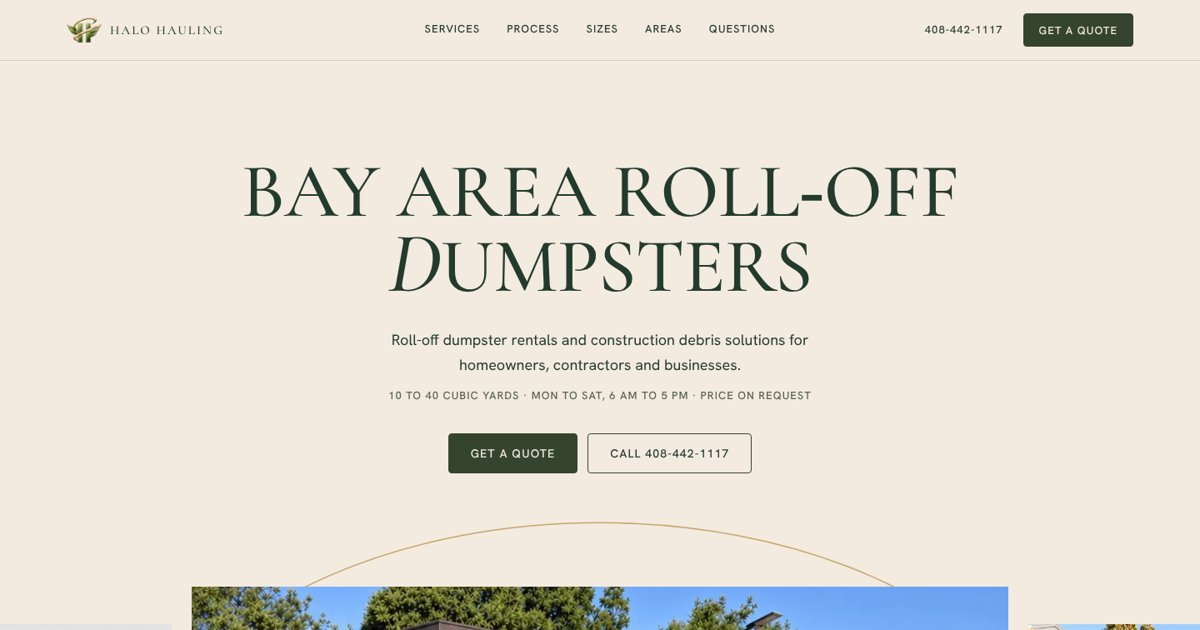
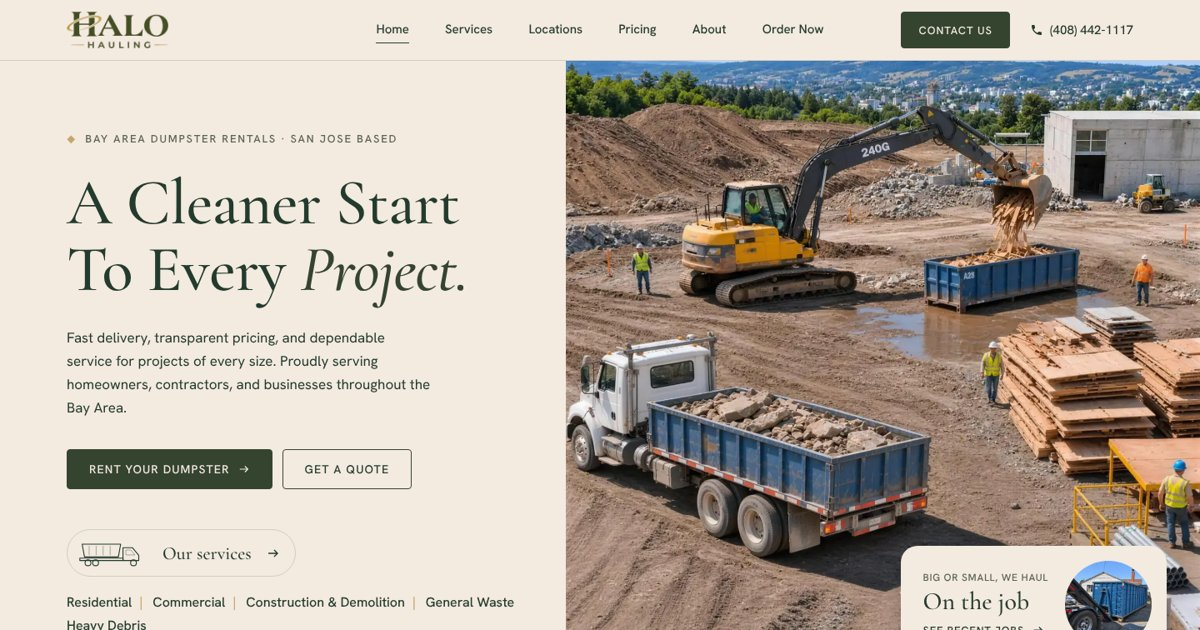
Update landing page preview
Claude-Session: https://claude.ai/code/session_01D1zbuP5dsXHYhoAWNQLH19

diff --git a/index.html b/index.html
@@ -46,7 +46,7 @@ ul, ol { list-style: none; }
 .display em, .h2 em { font-style: italic; text-transform: none; font-size: 1.12em; line-height: 0; }
 .label { font: 500 13px/1.4 var(--sans); letter-spacing: .08em; text-transform: uppercase; color: var(--muted); }
 .label > span { color: var(--gold); margin-right: 12px; padding-right: 12px; border-right: 1px solid currentColor; }
-.dark .label > span, .label > span { color: #9a7a35; }
+.dark .label > span, .label > span { color: #775a1c; }
 .dark .label > span { color: var(--gold); }
 .lead { font-size: 18px; line-height: 1.6; max-width: 46ch; }
 .caps { font: 500 13px/1.3 var(--sans); letter-spacing: .08em; text-transform: uppercase; }
@@ -69,14 +69,17 @@ ul, ol { list-style: none; }
 .nav { position: sticky; top: 0; z-index: 20; background: var(--cream); border-bottom: 1px solid var(--line); }
 .nav__bar { height: var(--nav); display: grid; grid-template-columns: 1fr auto 1fr; align-items: center; gap: 24px; }
 .nav__logo { display: inline-flex; align-items: center; gap: 10px; text-decoration: none; font: 500 15px/1 var(--serif); letter-spacing: .14em; text-transform: uppercase; }
-.nav__logo img { height: 30px; width: auto; }
-.nav__links { display: flex; gap: 32px; }
+.nav__logo img { height: 44px; width: auto; }
+.nav__links { display: flex; gap: clamp(28px, 3vw, 48px); font: 500 15px/1 var(--sans); }
+.nav__links a[aria-current] { border-bottom-color: var(--forest); }
 .nav__links a { text-decoration: none; padding: 8px 0; border-bottom: 1px solid transparent; }
 .nav__links a:hover { border-bottom-color: currentColor; }
 .nav__end { display: flex; justify-content: flex-end; align-items: center; gap: 24px; }
-.nav__end .btn { min-height: 40px; padding: 0 18px; font-size: 13px; }
-.nav__phone { text-decoration: none; white-space: nowrap; }
+.nav__end .btn { min-height: 44px; padding: 0 20px; font-size: 13px; }
+.nav__phone { display: inline-flex; align-items: center; gap: 8px; text-decoration: none; white-space: nowrap; font: 500 15px/1 var(--sans); }
+.nav__phone svg { width: 16px; height: 16px; fill: var(--forest); }
 .nav__toggle { display: none; width: 44px; height: 44px; border: 1px solid var(--line); border-radius: var(--r); background: none; color: inherit; cursor: pointer; }
+@media (max-width: 1199px) { .nav__links { gap: 24px; } .nav__end { gap: 16px; } }
 @media (max-width: 1023px) {
   .nav__bar { grid-template-columns: 1fr auto; }
   .nav__links, .nav__phone { display: none; }
@@ -89,41 +92,62 @@ ul, ol { list-style: none; }
 
 section { padding-block: clamp(80px, 11vw, 160px); }
 
-/* hero: centred headline over a row of three photographs */
-.hero { padding-block: clamp(56px, 8vw, 112px) 0; text-align: center; }
-.hero .display { margin-inline: auto; }
-@media (max-width: 899px) { br.lg { display: none; } .hero .display { max-width: 12ch; } }
-.hero__sub { margin: 28px auto 0; max-width: 52ch; font-size: 18px; }
-.hero__tags { margin-top: 14px; color: var(--muted); }
-.hero__actions { display: flex; justify-content: center; gap: 12px; flex-wrap: wrap; margin-top: 36px; }
-.hero__row { margin-top: clamp(24px, 3vw, 40px); padding: clamp(56px, 7vw, 96px) 0 84px; display: grid; grid-template-columns: 1fr minmax(0, 980px) 1fr; gap: 24px; align-items: center; overflow: hidden; }
-.hero__row img { width: 100%; object-fit: cover; }
-.hero__row .side { height: clamp(320px, 33vw, 470px); }
-.hero__row .side--l img { object-position: 100% 50%; height: 100%; }
-.hero__row .side--r img { object-position: 0% 50%; height: 100%; }
-.hero__row .main img { aspect-ratio: 1.75; }
-.hero__row .main { position: relative; }
-.halo { position: absolute; left: -7%; width: 114%; top: clamp(-84px, -6vw, -40px); pointer-events: none; overflow: visible; }
-.halo path { fill: none; stroke: var(--gold); stroke-width: 1.6; vector-effect: non-scaling-stroke; }
-.hero__row .side, .hero__row .main picture { position: relative; z-index: 1; display: block; }
-.seal { z-index: 2; }
-.seal { position: absolute; right: -58px; bottom: -62px; width: 148px; height: 148px; border-radius: 50%; background: var(--forest); color: var(--cream); display: grid; place-items: center; text-decoration: none; transition: background-color .25s var(--ease); }
-.seal:hover { background: var(--olive); }
-.seal__ring { position: absolute; inset: 0; width: 100%; height: 100%; animation: spin 26s linear infinite; }
-.seal__ring text { font: 500 15.5px var(--sans); letter-spacing: .12em; fill: currentColor; }
-.seal__arrow { width: 34px; height: 34px; fill: none; stroke: var(--gold); stroke-width: 1.4; transition: transform .3s var(--ease); }
-.seal:hover .seal__arrow { transform: translate(3px, -3px); }
-@keyframes spin { to { transform: rotate(360deg); } }
-.is-still .seal__ring, .is-still .marquee__track { animation-play-state: paused; }
-@media (max-width: 1199px) { .seal { right: 16px; } }
+/* hero: words left, photograph to the right edge, four promises under it */
+.hero { padding: 0; }
+.hero__grid { display: grid; grid-template-columns: minmax(0, 1fr) minmax(0, 1.12fr); min-height: min(760px, calc(100svh - var(--nav) - 120px)); border-bottom: 1px solid var(--line); }
+.hero__text { padding: clamp(48px, 6vw, 88px) clamp(32px, 4vw, 64px) clamp(40px, 5vw, 72px) max(var(--gut), calc((100vw - var(--max)) / 2)); display: flex; flex-direction: column; justify-content: center; }
+.hero__kicker { display: flex; align-items: center; gap: 10px; font: 500 13px/1.3 var(--sans); letter-spacing: .14em; text-transform: uppercase; color: var(--muted); }
+.hero__kicker span { color: var(--gold); font-size: 10px; }
+.hero h1 { margin-top: 28px; font: 500 clamp(44px, 5.4vw, 84px)/1.02 var(--serif); letter-spacing: -.01em; }
+.hero h1 em { font-style: italic; color: var(--olive); }
+.hero__sub { margin-top: 28px; max-width: 46ch; font-size: 17px; line-height: 1.65; }
+.hero__actions { display: flex; gap: 12px; flex-wrap: wrap; margin-top: 36px; }
+.btn svg { width: 14px; height: 14px; }
+.hero__svc { display: inline-flex; align-items: center; gap: 18px; margin-top: 48px; padding: 10px 18px 10px 12px; border: 1px solid var(--line); border-radius: 999px; text-decoration: none; align-self: flex-start; transition: background-color .25s var(--ease), border-color .25s var(--ease); }
+.hero__svc:hover { background: var(--sand); border-color: rgba(35, 59, 44, .35); }
+.hero__truck { width: 84px; height: auto; fill: none; stroke: var(--forest); stroke-width: 1.6; stroke-linejoin: round; }
+.hero__truck .t { stroke-width: 1; opacity: .55; }
+.hero__svc span { font: 500 22px/1 var(--serif); }
+.hero__svc .arr { width: 16px; height: 16px; transition: transform .25s var(--ease); }
+.hero__svc:hover .arr { transform: translateX(4px); }
+.hero__cats { display: flex; flex-wrap: wrap; row-gap: 6px; margin: 20px 0 0 -25px; clip-path: inset(0 0 0 25px); font: 500 16px/1.4 var(--sans); }
+.hero__cats li { position: relative; padding-left: 25px; }
+.hero__cats li::before { content: "|"; position: absolute; left: 9px; color: var(--gold); }
+.hero__media { position: relative; min-height: 420px; }
+.hero__media picture, .hero__media > picture img { position: absolute; inset: 0; width: 100%; height: 100%; }
+.hero__media > picture img { object-fit: cover; object-position: 50% 55%; }
+.hero__card { position: absolute; right: clamp(16px, 3vw, 40px); bottom: clamp(16px, 3vw, 40px); display: flex; align-items: center; gap: 20px; padding: 18px 18px 18px 26px; background: var(--cream); border-radius: 20px; text-decoration: none; box-shadow: 0 10px 30px rgba(20, 30, 22, .18); transition: transform .3s var(--ease); }
+.hero__card:hover { transform: translateY(-3px); }
+.hero__card-text { display: grid; gap: 4px; }
+.hero__card small { font: 500 12px/1.3 var(--sans); letter-spacing: .06em; text-transform: uppercase; color: var(--muted); }
+.hero__card strong { font: 500 30px/1.05 var(--serif); font-weight: 500; }
+.hero__card-link { display: inline-flex; align-items: center; gap: 10px; margin-top: 8px; font: 500 13px/1 var(--sans); letter-spacing: .06em; text-transform: uppercase; }
+.hero__card-link svg { width: 14px; height: 14px; }
+.hero__card img { width: 104px; height: 104px; border-radius: 50%; object-fit: cover; }
+.hero__feats { display: grid; grid-template-columns: repeat(4, minmax(0, 1fr)); gap: 24px; padding-block: 40px 44px; }
+.hero__feats li { display: flex; align-items: center; gap: 16px; justify-content: center; }
+.hero__feats svg { width: 40px; height: 40px; flex: none; fill: none; stroke: var(--olive); stroke-width: 1.4; stroke-linecap: round; stroke-linejoin: round; }
+.hero__feats strong { display: block; font: 500 19px/1.25 var(--serif); font-size: 21px; }
+.hero__feats span { display: block; font-size: 15px; color: var(--muted); }
+@media (max-width: 1199px) { .hero__feats li { justify-content: flex-start; } }
+@media (max-width: 1023px) {
+  .hero__grid { grid-template-columns: 1fr; min-height: 0; }
+  .hero__text { padding: 48px var(--gut) 48px; }
+  .hero__media { min-height: 0; aspect-ratio: 4 / 3; }
+  .hero__feats { grid-template-columns: 1fr 1fr; row-gap: 28px; }
+}
 @media (max-width: 639px) {
-  .hero__row { grid-template-columns: 1fr; padding-inline: var(--gut); padding-bottom: 64px; }
-  .seal { width: 112px; height: 112px; right: 12px; bottom: -48px; }
-  .seal__arrow { width: 26px; height: 26px; }
-  .halo { left: -4%; width: 108%; top: -34px; }
-  .hero__row .side { display: none; }
-  .hero__row .main img { aspect-ratio: 1; }
+  .hero h1 { font-size: clamp(38px, 11vw, 52px); }
   .hero__actions .btn { flex: 1 1 100%; }
+  .hero__media { aspect-ratio: 4 / 5; }
+  .hero__card { left: 16px; right: 16px; justify-content: space-between; padding: 14px 14px 14px 20px; }
+  .hero__card strong { font-size: 24px; }
+  .hero__card img { width: 76px; height: 76px; }
+  .hero__cats { font-size: 15px; }
+  .hero__cats { margin-left: -19px; clip-path: inset(0 0 0 19px); }
+  .hero__cats li { padding-left: 19px; }
+  .hero__cats li::before { left: 6px; }
+  .hero__feats { grid-template-columns: 1fr; padding-block: 32px; }
 }
 
 /* intro: label and heading left, words right */
@@ -149,7 +173,7 @@ section { padding-block: clamp(80px, 11vw, 160px); }
 .svc { grid-column: 1 / span 8; }
 .svc li { display: grid; grid-template-columns: 56px minmax(0, 1fr); align-items: baseline; padding: 22px 0; border-bottom: 1px solid var(--line); position: relative; transition: opacity .25s var(--ease), padding-left .35s var(--ease); }
 .svc li::after { content: ""; position: absolute; left: 0; bottom: -1px; height: 1px; width: 0; background: var(--gold); transition: width .5s var(--ease); }
-.svc__n { font: 500 13px/1 var(--sans); letter-spacing: .08em; color: #9a7a35; }
+.svc__n { font: 500 13px/1 var(--sans); letter-spacing: .08em; color: #775a1c; }
 @media (hover: hover) { .svc li:hover { padding-left: 16px; } .svc li:hover::after { width: 100%; } }
 .svc li:first-child { padding-top: 0; }
 .svc h3 { font: 500 clamp(26px, 3.1vw, 44px)/1.05 var(--serif); text-transform: uppercase; }
@@ -263,9 +287,9 @@ section { padding-block: clamp(80px, 11vw, 160px); }
 .sizer__b:hover .box { fill: rgba(53, 68, 47, .14); }
 .sizer__b[aria-pressed="true"] .box { fill: var(--olive); }
 .sizer__b[aria-pressed="true"] .ribs path { stroke: var(--cream); opacity: .5; }
-.sizer__b[aria-pressed="true"] span { color: #7d6226; }
+.sizer__b[aria-pressed="true"] span { color: #775a1c; }
 .sizer__b[aria-pressed="true"]::after { content: ""; position: absolute; left: 0; right: 0; bottom: -1px; height: 3px; background: var(--gold); }
-.sizer__person { position: relative; padding-bottom: 44px; color: #9a7a35; flex: none; }
+.sizer__person { position: relative; padding-bottom: 44px; color: #775a1c; flex: none; }
 .sizer__person svg { display: block; width: calc(16 * var(--k) * 1px); height: auto; fill: currentColor; margin-bottom: calc(8 * var(--k) * 1px * .0 + 0px); }
 .sizer__person span { position: absolute; left: 0; bottom: 8px; font: 500 12px/1 var(--sans); letter-spacing: .06em; text-transform: uppercase; white-space: nowrap; }
 .sizer__dims { margin-top: 10px; color: var(--muted); }
@@ -278,7 +302,7 @@ section { padding-block: clamp(80px, 11vw, 160px); }
 @media (max-width: 899px) { .sizer__row { --k: .68; gap: 8px; } .sizer__detail { grid-template-columns: 1fr; gap: 16px; } .sizer__detail .arrow-link { justify-self: start; } }
 @media (max-width: 699px) { .sizer__row { --k: .5; } }
 @media (max-width: 599px) { .sizer__person span { font-size: 10px; } }
-@media (max-width: 599px) { .sizer__row { --k: .34; gap: 5px; } .sizer__b { padding-bottom: 36px; min-width: 40px; } .sizer__b span { font-size: 18px; } }
+@media (max-width: 599px) { .sizer__row { --k: .34; gap: 5px; } .sizer__b { padding-bottom: 36px; min-width: 44px; display: flex; flex-direction: column; justify-content: flex-end; align-items: flex-start; } .sizer__b span { font-size: 18px; } }
 
 /* questions */
 .faq-wrap { border-top: 0; }
@@ -365,13 +389,13 @@ section { padding-block: clamp(80px, 11vw, 160px); }
 
 /* load: the hero enters once; nothing else moves on scroll */
 @media (prefers-reduced-motion: no-preference) {
-  .hero .display, .hero__sub, .hero__tags, .hero__actions { animation: rise .9s var(--ease) both; }
-  .hero__sub { animation-delay: .08s; } .hero__tags { animation-delay: .14s; } .hero__actions { animation-delay: .2s; }
-  .hero__row { animation: fade 1.2s var(--ease) .15s both; }
+  .hero__text > * { animation: rise .9s var(--ease) both; }
+  .hero__text > :nth-child(2) { animation-delay: .06s; } .hero__text > :nth-child(3) { animation-delay: .12s; } .hero__text > :nth-child(n+4) { animation-delay: .18s; }
+  .hero__media { animation: fade 1.2s var(--ease) .1s both; }
 }
 @keyframes rise { from { opacity: 0; transform: translateY(14px); } }
 @keyframes fade { from { opacity: 0; } }
-@media (prefers-reduced-motion: reduce) { .marquee__track, .seal__ring { animation: none; } *, *::before, *::after { transition: none !important; } }
+@media (prefers-reduced-motion: reduce) { .marquee__track { animation: none; } *, *::before, *::after { transition: none !important; } }
 </style>
 </head>
 <body>
@@ -379,17 +403,18 @@ section { padding-block: clamp(80px, 11vw, 160px); }
 
 <header class="nav">
   <div class="wrap nav__bar">
-    <a class="nav__logo" href="#top"><img src="img/logo-mark.png" alt="" width="224" height="160">Halo Hauling</a>
-    <nav class="nav__links caps" id="menu" aria-label="Main">
+    <a class="nav__logo" href="#top"><img src="img/logo-wordmark.png" alt="Halo Hauling" width="520" height="188"></a>
+    <nav class="nav__links" id="menu" aria-label="Main">
+      <a href="#top" aria-current="page">Home</a>
       <a href="#services">Services</a>
-      <a href="#process">Process</a>
-      <a href="#sizes">Sizes</a>
-      <a href="#areas">Areas</a>
-      <a href="#questions">Questions</a>
+      <a href="#areas">Locations</a>
+      <a href="#sizes">Pricing</a>
+      <a href="#about">About</a>
+      <a href="#quote">Order Now</a>
     </nav>
     <div class="nav__end">
-      <a class="nav__phone caps" href="tel:+14084421117">408-442-1117</a>
-      <a class="btn btn--fill" href="#quote">Get a quote</a>
+      <a class="btn btn--fill" href="#quote">Contact us</a>
+      <a class="nav__phone" href="tel:+14084421117"><svg viewBox="0 0 24 24" aria-hidden="true"><path d="M6.6 10.8a15 15 0 0 0 6.6 6.6l2.2-2.2c.3-.3.7-.4 1-.2 1.1.4 2.3.6 3.6.6.6 0 1 .4 1 1V20c0 .6-.4 1-1 1A17 17 0 0 1 3 4c0-.6.4-1 1-1h3.5c.6 0 1 .4 1 1 0 1.3.2 2.5.6 3.6.1.3 0 .7-.2 1z"/></svg>(408) 442-1117</a>
       <button class="nav__toggle" type="button" aria-controls="menu" aria-expanded="false" aria-label="Menu">
         <svg width="18" height="18" viewBox="0 0 18 18" aria-hidden="true"><path d="M2 6h14M2 12h14" stroke="currentColor" stroke-width="1.5" stroke-linecap="round"/></svg>
       </button>
@@ -399,33 +424,35 @@ section { padding-block: clamp(80px, 11vw, 160px); }
 
 <main id="top">
   <section class="hero" aria-labelledby="hero-h">
-    <div class="wrap">
-      <h1 class="display" id="hero-h">Bay Area roll&#8209;off <br class="lg"><em>D</em>umpsters</h1>
-      <p class="hero__sub">Roll-off dumpster rentals and construction debris solutions for homeowners, contractors and businesses.</p>
-      <p class="hero__tags caps">10 to 40 cubic yards &middot; Mon to Sat, 6 am to 5 pm &middot; Price on request</p>
-      <div class="hero__actions">
-        <a class="btn btn--fill" href="#quote">Get a quote</a>
-        <a class="btn btn--line" href="tel:+14084421117">Call 408-442-1117</a>
+    <div class="hero__grid">
+      <div class="hero__text">
+        <p class="hero__kicker"><span aria-hidden="true">&#9670;</span>Bay Area dumpster rentals &middot; San Jose based</p>
+        <h1 id="hero-h">A Cleaner Start <br>To Every <em>Project.</em></h1>
+        <p class="hero__sub">Fast delivery, transparent pricing, and dependable service for projects of every size. Proudly serving homeowners, contractors, and businesses throughout the Bay Area.</p>
+        <div class="hero__actions">
+          <a class="btn btn--fill" href="#sizes">Rent your dumpster<svg viewBox="0 0 16 16" aria-hidden="true"><path d="M2 8h11M9 4l4 4-4 4" fill="none" stroke="currentColor" stroke-width="1.4"/></svg></a>
+          <a class="btn btn--line" href="#quote">Get a quote</a>
+        </div>
+        <a class="hero__svc" href="#services"><svg class="hero__truck" viewBox="0 0 120 50" aria-hidden="true"><path d="M8 10h66l-4 22H12z"/><path class="t" d="M20 13v16M32 13v16M44 13v16M56 13v16"/><path d="M4 34h74v4H4z"/><path d="M78 16h16l11 13v9H78z"/><path class="t" d="M83 20h8.5l7 8.5H83z"/><circle cx="18" cy="42" r="5"/><circle cx="31" cy="42" r="5"/><circle cx="96" cy="42" r="5"/></svg><span>Our services</span><svg class="arr" viewBox="0 0 16 16" aria-hidden="true"><path d="M2 8h11M9 4l4 4-4 4" fill="none" stroke="currentColor" stroke-width="1.4"/></svg></a>
+        <ul class="hero__cats"><li>Residential</li><li>Commercial</li><li>Construction &amp; Demolition</li><li>General Waste</li><li>Heavy Debris</li></ul>
       </div>
-    </div>
-    <div class="hero__row">
-      <div class="side side--l"><img src="img/hero-left-dock.webp" alt="" width="620" height="795" decoding="async"></div>
-      <div class="main">
-        <svg class="halo" viewBox="0 0 1000 240" aria-hidden="true"><path d="M4 236 C 180 -70, 820 -70, 996 236"/></svg>
-        <picture><source media="(max-width: 639px)" srcset="img/hero-truck-phone.webp"><img src="img/hero-truck.webp" alt="The Halo Hauling hook-lift truck carrying a blue roll-off dumpster, the Halo logo on its mud flap" width="1201" height="686" fetchpriority="high"></picture>
-        <a class="seal" href="#quote" aria-label="Get a quote">
-          <svg class="seal__ring" viewBox="0 0 200 200" aria-hidden="true">
-            <defs><path id="seal-p" d="M100 100 m-74 0 a74 74 0 1 1 148 0 a74 74 0 1 1 -148 0"/></defs>
-            <text><textPath href="#seal-p" textLength="452">GET A QUOTE &#10022; HALO HAULING &#10022; BAY AREA &#10022;</textPath></text>
-          </svg>
-          <svg class="seal__arrow" viewBox="0 0 24 24" aria-hidden="true"><path d="M6 18 18 6M9 6h9v9"/></svg>
+      <div class="hero__media">
+        <picture><source media="(max-width: 1023px)" srcset="img/hero-site-820.webp"><img src="img/hero-site-1400.webp" alt="An excavator loading debris into a blue roll-off dumpster on a construction site, with a loaded truck in front" width="1400" height="1742" fetchpriority="high"></picture>
+        <a class="hero__card" href="#jobs">
+          <span class="hero__card-text"><small>Big or small, we haul</small><strong>On the job</strong><span class="hero__card-link">See recent jobs<svg viewBox="0 0 16 16" aria-hidden="true"><path d="M2 8h11M9 4l4 4-4 4" fill="none" stroke="currentColor" stroke-width="1.4"/></svg></span></span>
+          <img src="img/job-3.webp" alt="" width="640" height="853" loading="lazy" decoding="async">
         </a>
       </div>
-      <div class="side side--r"><img src="img/hero-right-curb.webp" alt="" width="620" height="795" decoding="async"></div>
     </div>
+    <ul class="hero__feats wrap">
+      <li><svg viewBox="0 0 24 24" aria-hidden="true"><path d="M2 7h11v9H2zM13 10h4l3 3v3h-7z"/><circle cx="6" cy="17.5" r="1.8"/><circle cx="16.5" cy="17.5" r="1.8"/></svg><div><strong>Fast delivery</strong><span>Same day delivery</span></div></li>
+      <li><svg viewBox="0 0 24 24" aria-hidden="true"><circle cx="12" cy="12" r="9.5"/><path d="M15 8.6c-.6-.9-1.8-1.4-3-1.4-1.7 0-3 .9-3 2.3 0 3.2 6 1.6 6 4.8 0 1.4-1.4 2.4-3.1 2.4-1.3 0-2.5-.6-3.1-1.6M12 5.5v13"/></svg><div><strong>Flat rate pricing</strong><span>No hidden fees</span></div></li>
+      <li><svg viewBox="0 0 24 24" aria-hidden="true"><rect x="3" y="5" width="18" height="16" rx="1.5"/><path d="M3 10h18M8 3v4M16 3v4M7.5 14h2M11 14h2M14.5 14h2M7.5 17.5h2M11 17.5h2"/></svg><div><strong>Flexible rentals</strong><span>Made to work for you</span></div></li>
+      <li><svg viewBox="0 0 24 24" aria-hidden="true"><path d="M12 2.8 4.5 5.6v6c0 4.6 3.1 8.3 7.5 9.6 4.4-1.3 7.5-5 7.5-9.6v-6z"/><path d="m8.6 12 2.4 2.4 4.6-4.8"/></svg><div><strong>Reliable service</strong><span>Every haul, done right</span></div></li>
+    </ul>
   </section>
 
-  <section class="intro" aria-labelledby="intro-h">
+  <section class="intro" id="about" aria-labelledby="intro-h">
     <div class="wrap split">
       <div class="intro__head">
         <p class="label"><span>01</span>About Halo Hauling</p>
